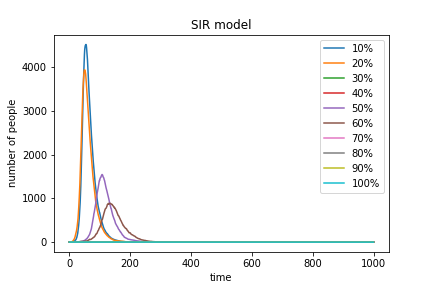
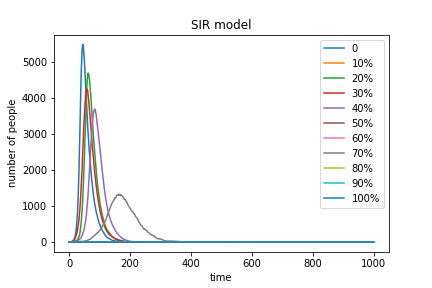
polish

diff --git a/Practical12/SIR_VACCINATION.py b/Practical12/SIR_VACCINATION.py
@@ -7,8 +7,8 @@ Created on Wed May  8 09:06:54 2019
 
 import numpy as np
 import matplotlib.pyplot as plt
-
-for j in range(10):
+from matplotlib import cm
+for j in range(11):
     N=10000
     beta=0.3
     gamma=0.05
@@ -16,12 +16,12 @@ for j in range(10):
     susceptible=9999
     recovered=0
     #the different propotion of people get vaccinated
-    vaccination=[0.1,0.2,0.3,0.4,0.5,0.6,0.7,0.8,0.9,1]
+    vaccination=[0,0.1,0.2,0.3,0.4,0.5,0.6,0.7,0.8,0.9,1]
     track=np.array((infected,susceptible,recovered))
     for i in range(1000):      
-        propotion=beta*(infected/10000)
+        propotion=beta*(infected/N)
 
-        getinfected=np.random.choice(range(2),susceptible-int(N*vaccination[j])+1,p=[1-propotion,propotion])
+        getinfected=np.random.choice(range(2),susceptible-int(susceptible*vaccination[j]),p=[1-propotion,propotion])
         getrecovered=np.random.choice(range(2),infected,p=[1-gamma,gamma])
         getinfected=sum(getinfected)
         getrecovered=sum(getrecovered)
@@ -38,9 +38,9 @@ for j in range(10):
     plt.xlabel('time')
     y_pos=np.arange(1000)
     plt.plot(x)
-    plt.legend(['10%','20%','30%','40%','50%','60%','70%','80%','90%','100%'])
+    plt.legend(['0','10%','20%','30%','40%','50%','60%','70%','80%','90%','100%'])
     plt.title('SIR model')
-
+    
 plt.savefig ("SIR_vaccination.png" ,type="png")
-plt.show()
+#plt.show()
 
